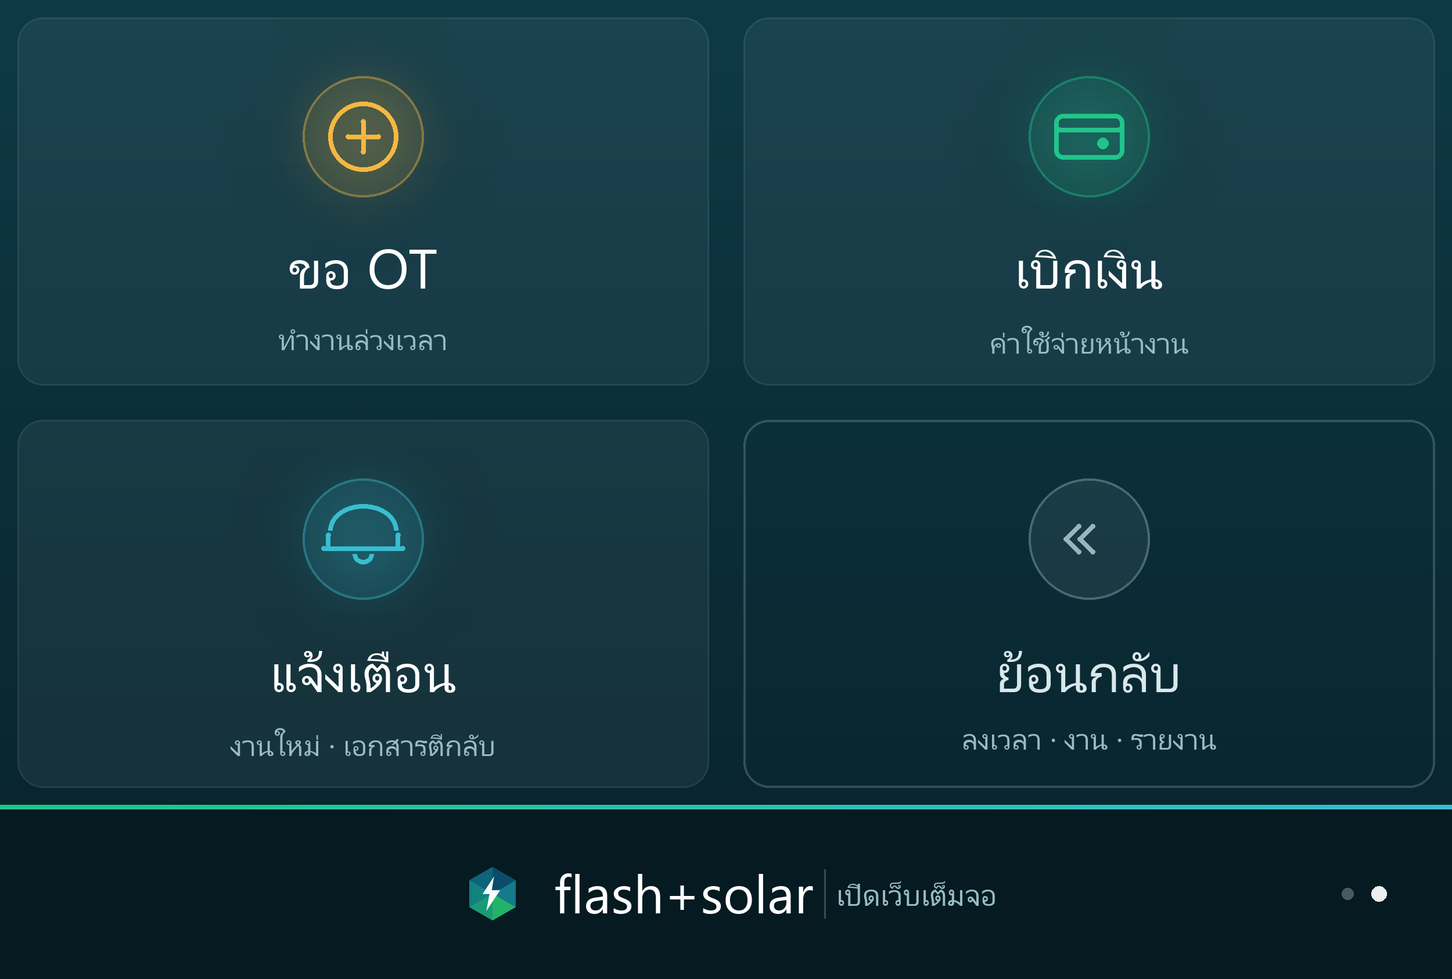
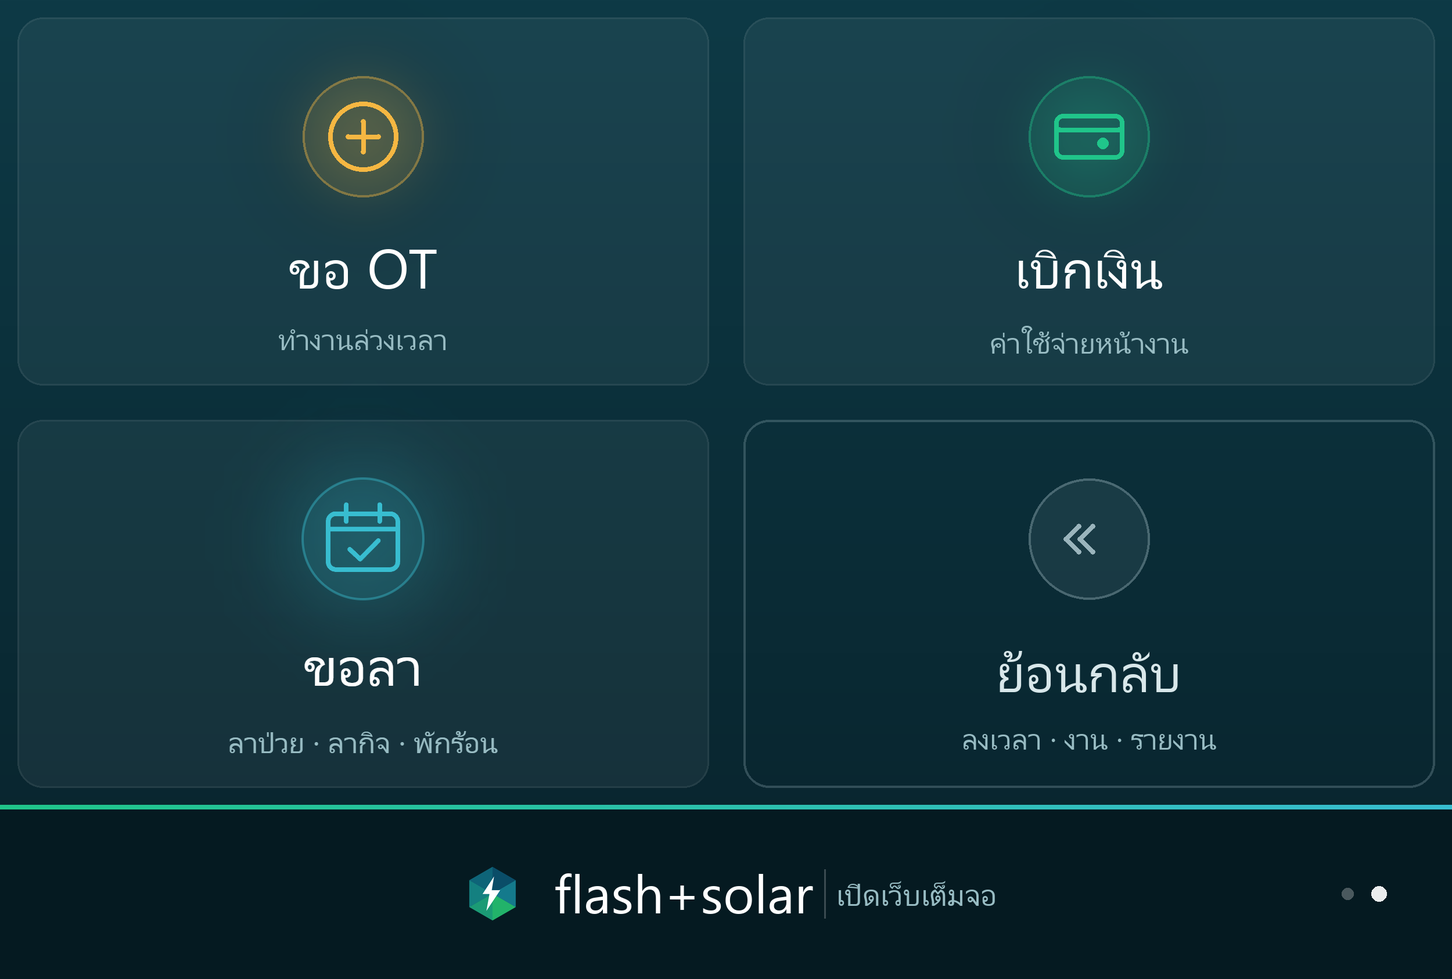
feat(การลา): ปุ่ม "ขอลา" ในเมนูไลน์แทนแจ้งเตือน · ยื่นลาได้ทางไลน์อย่างเดียว · ต้องเลือกผู้อนุมัติ
- เมนูล่าง OA หน้า 2 ช่องที่ 3 เปลี่ยนจาก "แจ้งเตือน" เป็น "ขอลา" (?tab=leave) พร้อมรูปเมนูใหม่
- ผู้ใช้ขอให้ยื่นใบลาได้แค่ในไลน์ — เอาปุ่มขอลา/แก้ใบ/ตีกลับบนเว็บออก เว็บเหลือดู·อนุมัติ·ยกเลิก·แก้ยอด
- ตัดตัวเลือก "ใครก็ได้ที่มีสิทธิ์อนุมัติ" ต้องเลือกผู้อนุมัติก่อนส่ง
- ชิปประเภทลาในฟอร์มไลน์อยู่แถวเดียว ไม่ตกบรรทัด

Changed region(s): [[0.2184, 0.4935, 0.2808, 0.586], [0.1872, 0.6477, 0.312, 0.7094], [0.156, 0.7402, 0.3432, 0.7711]]

diff --git a/dashboard/views-leave.jsx b/dashboard/views-leave.jsx
@@ -62,7 +62,8 @@ function LvModal({ rec, cfg, types, users, rows, quota, role, currentUser, onSav
   if (!f) return null;
 
   const mine = currentUser && f.userId === currentUser.id;
-  const editable = mine && f.status === "draft";
+  /* ยื่นใบลาได้ทางไลน์อย่างเดียว (ผู้ใช้ขอ) — บนเว็บไม่มีการแก้ใบ เจ้าของยกเลิกได้อย่างเดียว */
+  const editable = false;
   const set = (k, v) => setF((p) => {
     const n = Object.assign({}, p, { [k]: v });
     if (k === "from" && (!n.to || n.to < v)) n.to = v;
@@ -72,7 +73,8 @@ function LvModal({ rec, cfg, types, users, rows, quota, role, currentUser, onSav
   });
   const bal = window.lvBalance(rows, quota, f.userId, window.lvYearOf(f.from), types);
   const why = window.lvSendWhy(f, bal);
-  const nexts = window.lvNext(f, role, currentUser).filter((s) => s.key !== "sent" || !why);
+  /* ไม่มี "ส่ง" และ "ตีกลับให้แก้" บนเว็บ — ใบร่างแก้ในไลน์ไม่ได้ ตีกลับแล้วจะค้าง ให้ไม่อนุมัติพร้อมเหตุผลแทน */
+  const nexts = window.lvNext(f, role, currentUser).filter((s) => s.key !== "sent" && s.key !== "draft");
   const apprWhy = window.lvApproveCheck(f, currentUser, role).why;
   const one = f.from === (f.to || f.from);
   /* ประเภทที่เลือกได้ = มียอด (หรือไม่จำกัด) — ลาคลอดที่ยอด 0 ไม่ต้องขึ้นให้ทุกคน */
@@ -158,10 +160,10 @@ function LvModal({ rec, cfg, types, users, rows, quota, role, currentUser, onSav
                 const u = (users || []).find((x) => x.id === e.target.value);
                 setF((p) => Object.assign({}, p, { approverId: u ? u.id : null, approverName: u ? u.name : "" }));
               }}>
-              <option value="">— ใครก็ได้ที่มีสิทธิ์อนุมัติ —</option>
+              <option value="">— เลือกผู้อนุมัติ —</option>
               {window.lvApprovers(users, { id: f.userId }).map((u) => <option key={u.id} value={u.id}>{u.name}</option>)}
             </select>
-          ) : <span style={{ fontSize: 12.5, fontWeight: 700, color: "var(--text-1)" }}>{f.approverName || "ใครก็ได้ที่มีสิทธิ์"}</span>}
+          ) : <span style={{ fontSize: 12.5, fontWeight: 700, color: "var(--text-1)" }}>{f.approverName || "—"}</span>}
         </label>
 
         {f.decidedAt && (
@@ -374,10 +376,6 @@ function LeaveTab({ users, role, currentUser, cfg }) {
     return out;
   }, [sub, visible, waiting, uid, year, q, types]);
 
-  const openNew = () => {
-    const rec = window.lvBlank(currentUser, users, lv.rows, cfg);
-    lv.save(rec); setOpen(rec.id); setSub("mine");
-  };
   const move = (rec, to, note) => {
     const next = window.lvMove(Object.assign({}, rec, { days: window.lvCountDays(rec.from, rec.to, rec.part, cfg) }), to, currentUser, note || "");
     if (!next) return;
@@ -402,10 +400,9 @@ function LeaveTab({ users, role, currentUser, cfg }) {
           <span style={{ fontFamily: "var(--mono)", fontSize: 13, fontWeight: 800, minWidth: 56, textAlign: "center" }}>ปี {year + 543}</span>
           <button onClick={() => setYear(year + 1)} style={lvBtn(false)}>›</button>
         </div>
-        <button onClick={openNew} disabled={!can} style={Object.assign(lvBtn(can), { marginLeft: "auto", opacity: can ? 1 : .5 })}>
-          <Icon name="plus" size={14} color={can ? "#fff" : "var(--text-3)"} /> ขอลา
-        </button>
-        <span style={{ fontSize: 11.5, color: "var(--text-3)" }}>ขอลาจากแอปในไลน์ได้เหมือนกัน (แท็บเวลา → การลา)</span>
+        {can && <span style={{ marginLeft: "auto", fontSize: 12, color: "var(--text-3)", fontWeight: 700 }}>
+          ยื่นใบลาได้ทางแอปไลน์เท่านั้น — ปุ่ม "ขอลา" ที่เมนูล่าง หรือแท็บเวลา → การลา
+        </span>}
       </div>
 
       <LvBalanceCards bal={myBal} />

diff --git a/dashboard/build/views-leave.js b/dashboard/build/views-leave.js
@@ -128,7 +128,7 @@ function LvModal({
   const box = window.useBackdropClose ? window.useBackdropClose(onClose) : {};
   if (!f) return null;
   const mine = currentUser && f.userId === currentUser.id;
-  const editable = mine && f.status === "draft";
+  const editable = false;
   const set = (k, v) => setF(p => {
     const n = Object.assign({}, p, {
       [k]: v
@@ -140,7 +140,7 @@ function LvModal({
   });
   const bal = window.lvBalance(rows, quota, f.userId, window.lvYearOf(f.from), types);
   const why = window.lvSendWhy(f, bal);
-  const nexts = window.lvNext(f, role, currentUser).filter(s => s.key !== "sent" || !why);
+  const nexts = window.lvNext(f, role, currentUser).filter(s => s.key !== "sent" && s.key !== "draft");
   const apprWhy = window.lvApproveCheck(f, currentUser, role).why;
   const one = f.from === (f.to || f.from);
   const pickable = bal.filter(b => b.quota !== 0 || b.type.key === f.type);
@@ -360,7 +360,7 @@ function LvModal({
     }
   }, React.createElement("option", {
     value: ""
-  }, "\u2014 \u0E43\u0E04\u0E23\u0E01\u0E47\u0E44\u0E14\u0E49\u0E17\u0E35\u0E48\u0E21\u0E35\u0E2A\u0E34\u0E17\u0E18\u0E34\u0E4C\u0E2D\u0E19\u0E38\u0E21\u0E31\u0E15\u0E34 \u2014"), window.lvApprovers(users, {
+  }, "\u2014 \u0E40\u0E25\u0E37\u0E2D\u0E01\u0E1C\u0E39\u0E49\u0E2D\u0E19\u0E38\u0E21\u0E31\u0E15\u0E34 \u2014"), window.lvApprovers(users, {
     id: f.userId
   }).map(u => React.createElement("option", {
     key: u.id,
@@ -371,7 +371,7 @@ function LvModal({
       fontWeight: 700,
       color: "var(--text-1)"
     }
-  }, f.approverName || "ใครก็ได้ที่มีสิทธิ์")), f.decidedAt && React.createElement("div", {
+  }, f.approverName || "—")), f.decidedAt && React.createElement("div", {
     style: {
       marginTop: 10,
       padding: "10px 12px",
@@ -838,12 +838,6 @@ function LeaveTab({
     if (kw) out = out.filter(r => [r.no, r.userName, r.reason, window.lvTypeOf(types, r.type).th].some(v => String(v || "").toLowerCase().includes(kw)));
     return out;
   }, [sub, visible, waiting, uid, year, q, types]);
-  const openNew = () => {
-    const rec = window.lvBlank(currentUser, users, lv.rows, cfg);
-    lv.save(rec);
-    setOpen(rec.id);
-    setSub("mine");
-  };
   const move = (rec, to, note) => {
     const next = window.lvMove(Object.assign({}, rec, {
       days: window.lvCountDays(rec.from, rec.to, rec.part, cfg)
@@ -894,23 +888,14 @@ function LeaveTab({
   }, "\u0E1B\u0E35 ", year + 543), React.createElement("button", {
     onClick: () => setYear(year + 1),
     style: lvBtn(false)
-  }, "\u203A")), React.createElement("button", {
-    onClick: openNew,
-    disabled: !can,
-    style: Object.assign(lvBtn(can), {
-      marginLeft: "auto",
-      opacity: can ? 1 : .5
-    })
-  }, React.createElement(Icon, {
-    name: "plus",
-    size: 14,
-    color: can ? "#fff" : "var(--text-3)"
-  }), " \u0E02\u0E2D\u0E25\u0E32"), React.createElement("span", {
+  }, "\u203A")), can && React.createElement("span", {
     style: {
-      fontSize: 11.5,
-      color: "var(--text-3)"
+      marginLeft: "auto",
+      fontSize: 12,
+      color: "var(--text-3)",
+      fontWeight: 700
     }
-  }, "\u0E02\u0E2D\u0E25\u0E32\u0E08\u0E32\u0E01\u0E41\u0E2D\u0E1B\u0E43\u0E19\u0E44\u0E25\u0E19\u0E4C\u0E44\u0E14\u0E49\u0E40\u0E2B\u0E21\u0E37\u0E2D\u0E19\u0E01\u0E31\u0E19 (\u0E41\u0E17\u0E47\u0E1A\u0E40\u0E27\u0E25\u0E32 \u2192 \u0E01\u0E32\u0E23\u0E25\u0E32)")), React.createElement(LvBalanceCards, {
+  }, "\u0E22\u0E37\u0E48\u0E19\u0E43\u0E1A\u0E25\u0E32\u0E44\u0E14\u0E49\u0E17\u0E32\u0E07\u0E41\u0E2D\u0E1B\u0E44\u0E25\u0E19\u0E4C\u0E40\u0E17\u0E48\u0E32\u0E19\u0E31\u0E49\u0E19 \u2014 \u0E1B\u0E38\u0E48\u0E21 \"\u0E02\u0E2D\u0E25\u0E32\" \u0E17\u0E35\u0E48\u0E40\u0E21\u0E19\u0E39\u0E25\u0E48\u0E32\u0E07 \u0E2B\u0E23\u0E37\u0E2D\u0E41\u0E17\u0E47\u0E1A\u0E40\u0E27\u0E25\u0E32 \u2192 \u0E01\u0E32\u0E23\u0E25\u0E32")), React.createElement(LvBalanceCards, {
     bal: myBal
   }), React.createElement("div", {
     style: {

diff --git a/dashboard/liff-leave.jsx b/dashboard/liff-leave.jsx
@@ -69,11 +69,13 @@ function LnLvForm({ me, users, rows, quota, types, cfg, onSave, onClose }) {
       <LnSheetHead title="ขอลา" no={f.no} onClose={onClose} />
       <div style={{ padding: "4px 16px 24px", display: "grid", gap: 14 }}>
         <LnField label="ประเภทการลา" req>
-          <div style={{ display: "flex", gap: 7, flexWrap: "wrap" }}>
+          {/* แถวเดียวเสมอ (ผู้ใช้ขอ) — ชิปเล็กลง ไม่พอก็เลื่อนข้าง ไม่ตกบรรทัด */}
+          <div style={{ display: "flex", gap: 5, flexWrap: "nowrap", overflowX: "auto", scrollbarWidth: "none" }}>
             {bal.filter((b) => b.quota !== 0).map((b) => (
-              <button key={b.type.key} onClick={() => set("type", b.type.key)} style={lnChip(f.type === b.type.key, b.type.color)}>
+              <button key={b.type.key} onClick={() => set("type", b.type.key)}
+                style={Object.assign(lnChip(f.type === b.type.key, b.type.color), { padding: "8px 9px", fontSize: 12.5, flexShrink: 0 })}>
                 {b.type.th}
-                <span style={{ marginLeft: 5, fontFamily: "var(--mono)", fontSize: 11, opacity: .8 }}>
+                <span style={{ marginLeft: 4, fontFamily: "var(--mono)", fontSize: 11, opacity: .8 }}>
                   {b.left == null ? "∞" : Math.round(b.left * 10) / 10}
                 </span>
               </button>
@@ -109,13 +111,13 @@ function LnLvForm({ me, users, rows, quota, types, cfg, onSave, onClose }) {
             placeholder="เช่น ไม่สบาย มีไข้ · ไปทำธุระที่อำเภอ"
             style={Object.assign({}, LN_FIELD, { resize: "vertical", lineHeight: 1.6 })} />
         </LnField>
-        <LnField label="ส่งให้ใครอนุมัติ">
+        <LnField label="ผู้อนุมัติ" req>
           <select value={f.approverId || ""} style={LN_FIELD}
             onChange={(e) => {
               const u = approvers.find((x) => x.id === e.target.value);
               setF((p) => Object.assign({}, p, { approverId: u ? u.id : null, approverName: u ? u.name : "" }));
             }}>
-            <option value="">— ใครก็ได้ที่มีสิทธิ์อนุมัติ —</option>
+            <option value="" disabled>— เลือกผู้อนุมัติ —</option>
             {approvers.map((u) => <option key={u.id} value={u.id}>{u.name}</option>)}
           </select>
         </LnField>

diff --git a/dashboard/build/liff-leave.js b/dashboard/build/liff-leave.js
@@ -121,16 +121,22 @@ function LnLvForm({
   }, React.createElement("div", {
     style: {
       display: "flex",
-      gap: 7,
-      flexWrap: "wrap"
+      gap: 5,
+      flexWrap: "nowrap",
+      overflowX: "auto",
+      scrollbarWidth: "none"
     }
   }, bal.filter(b => b.quota !== 0).map(b => React.createElement("button", {
     key: b.type.key,
     onClick: () => set("type", b.type.key),
-    style: lnChip(f.type === b.type.key, b.type.color)
+    style: Object.assign(lnChip(f.type === b.type.key, b.type.color), {
+      padding: "8px 9px",
+      fontSize: 12.5,
+      flexShrink: 0
+    })
   }, b.type.th, React.createElement("span", {
     style: {
-      marginLeft: 5,
+      marginLeft: 4,
       fontFamily: "var(--mono)",
       fontSize: 11,
       opacity: .8
@@ -205,7 +211,8 @@ function LnLvForm({
       lineHeight: 1.6
     })
   })), React.createElement(LnField, {
-    label: "\u0E2A\u0E48\u0E07\u0E43\u0E2B\u0E49\u0E43\u0E04\u0E23\u0E2D\u0E19\u0E38\u0E21\u0E31\u0E15\u0E34"
+    label: "\u0E1C\u0E39\u0E49\u0E2D\u0E19\u0E38\u0E21\u0E31\u0E15\u0E34",
+    req: true
   }, React.createElement("select", {
     value: f.approverId || "",
     style: LN_FIELD,
@@ -217,8 +224,9 @@ function LnLvForm({
       }));
     }
   }, React.createElement("option", {
-    value: ""
-  }, "\u2014 \u0E43\u0E04\u0E23\u0E01\u0E47\u0E44\u0E14\u0E49\u0E17\u0E35\u0E48\u0E21\u0E35\u0E2A\u0E34\u0E17\u0E18\u0E34\u0E4C\u0E2D\u0E19\u0E38\u0E21\u0E31\u0E15\u0E34 \u2014"), approvers.map(u => React.createElement("option", {
+    value: "",
+    disabled: true
+  }, "\u2014 \u0E40\u0E25\u0E37\u0E2D\u0E01\u0E1C\u0E39\u0E49\u0E2D\u0E19\u0E38\u0E21\u0E31\u0E15\u0E34 \u2014"), approvers.map(u => React.createElement("option", {
     key: u.id,
     value: u.id
   }, u.name)))), f.type && React.createElement("div", {

diff --git a/liff.html b/liff.html
@@ -122,7 +122,7 @@ window.LN_LIFF_ID = "2011577974-yzS9mgQQ";
 <script src="https://cdn.jsdelivr.net/npm/qrcode-generator@1.4.4/qrcode.js"></script>
 <script src="dashboard/build/vcard.js?v=22"></script>
 <script src="dashboard/build/attend.js?v=12"></script>
-<script src="dashboard/build/leave.js?v=2"></script>
+<script src="dashboard/build/leave.js?v=3"></script>
 <script src="dashboard/build/expense.js?v=17"></script>
 <!-- om.js เข้ามาเพราะแท็บ "ซ่อม" ใช้ใบแจ้งซ่อมชุดเดียวกับหน้า O&M บนเดสก์ท็อป
      (เป็นไฟล์ตรรกะล้วน ไม่มีหน้าจอเดสก์ท็อปติดมา — หน้าจออยู่ที่ views-om / om-ticket) -->
@@ -138,7 +138,7 @@ window.LN_LIFF_ID = "2011577974-yzS9mgQQ";
 <script src="dashboard/build/liff-app.js?v=29"></script>
 <!-- แท็บอนุมัติ โหลดหลัง liff-app เพราะใช้ LnPick จากไฟล์นั้น -->
 <script src="dashboard/build/liff-approve.js?v=6"></script>
-<script src="dashboard/build/liff-leave.js?v=2"></script>
+<script src="dashboard/build/liff-leave.js?v=3"></script>
 
 <script>
 (function () {

diff --git a/index.html b/index.html
@@ -1134,13 +1134,13 @@ H-@G1I margin-top D'IC*D%L-1'@- 6H
 <script src="dashboard/build/views-expense.js?v=34"></script>
 <script src="dashboard/build/ec-paper.js?v=19"></script>
 <script src="dashboard/build/attend.js?v=12"></script>
-<script src="dashboard/build/leave.js?v=2"></script>
+<script src="dashboard/build/leave.js?v=3"></script>
 <script src="dashboard/build/auth.js?v=52"></script>
 <!-- นามบัตรอิเล็กทรอนิกส์ — หลัง auth.js เพราะอ่าน ROLE_INFO/userRoles จากที่นั่น -->
 <script src="dashboard/build/vcard.js?v=22"></script>
 <script src="dashboard/build/line.js?v=9"></script>
 <script src="dashboard/build/views-attend.js?v=24"></script>
-<script src="dashboard/build/views-leave.js?v=3"></script>
+<script src="dashboard/build/views-leave.js?v=4"></script>
 <script src="dashboard/build/ot-paper.js?v=8"></script>
 <script src="dashboard/build/views-line.js?v=6"></script>
 <script src="dashboard/build/guide.js?v=11"></script>

diff --git a/dashboard/leave.jsx b/dashboard/leave.jsx
@@ -133,6 +133,8 @@ function lvSendWhy(f, bal) {
   if ((f.to || f.from) < f.from) return "วันสิ้นสุดต้องไม่ก่อนวันเริ่ม";
   if (!(+f.days > 0)) return "ช่วงนี้ไม่มีวันทำงาน — ไม่ต้องลา";
   if (!String(f.reason || "").trim()) return "กรอกเหตุผลการลา";
+  /* ต้องเลือกผู้อนุมัติเสมอ (ผู้ใช้ขอ) — ไม่มีแบบ "ใครก็ได้ที่มีสิทธิ์" */
+  if (!f.approverId) return "เลือกผู้อนุมัติ";
   const b = (bal || []).find((x) => x.type.key === f.type);
   /* ต้องลาล่วงหน้า — นับตอนกดส่ง เทียบวันนี้กับวันเริ่มลา */
   if (b) {

diff --git a/dashboard/build/leave.js b/dashboard/build/leave.js
@@ -134,6 +134,7 @@ function lvSendWhy(f, bal) {
   if ((f.to || f.from) < f.from) return "วันสิ้นสุดต้องไม่ก่อนวันเริ่ม";
   if (!(+f.days > 0)) return "ช่วงนี้ไม่มีวันทำงาน — ไม่ต้องลา";
   if (!String(f.reason || "").trim()) return "กรอกเหตุผลการลา";
+  if (!f.approverId) return "เลือกผู้อนุมัติ";
   const b = (bal || []).find(x => x.type.key === f.type);
   if (b) {
     const lead = lvLeadDays(f.from);

diff --git a/tools/richmenu-image.py b/tools/richmenu-image.py
@@ -48,14 +48,14 @@ PAGE1 = [
     {"th": "ลงเวลา",          "sub": "เข้า-ออกงาน",              "color": (32, 197, 138), "icon": "clock"},
     {"th": "งานของฉัน",       "sub": "ค้นหา · รายละเอียด",        "color": (56, 189, 208), "icon": "search"},
     {"th": "รายงานประจำวัน",  "sub": "ส่งใบรายงานหน้างาน",        "color": (122, 205, 122), "icon": "pen"},
-    {"th": "หน้าถัดไป",       "sub": "ขอ OT · เบิกเงิน · เตือน",  "color": (154, 180, 188), "icon": "next", "nav": True},
+    {"th": "หน้าถัดไป",       "sub": "ขอ OT · เบิกเงิน · ลา",    "color": (154, 180, 188), "icon": "next", "nav": True},
 ]
 
 # หน้าสอง — เรื่องเอกสาร กดไม่บ่อยเท่า แต่ต้องหาเจอ
 PAGE2 = [
     {"th": "ขอ OT",      "sub": "ทำงานล่วงเวลา",            "color": (245, 183, 66),  "icon": "plus"},
     {"th": "เบิกเงิน",   "sub": "ค่าใช้จ่ายหน้างาน",         "color": (32, 197, 138),  "icon": "wallet"},
-    {"th": "แจ้งเตือน",  "sub": "งานใหม่ · เอกสารตีกลับ",    "color": (56, 189, 208),  "icon": "bell"},
+    {"th": "ขอลา",  "sub": "ลาป่วย · ลากิจ · พักร้อน",    "color": (56, 189, 208),  "icon": "calendar"},  # ไอคอนปฏิทินวาดในเบราว์เซอร์ (เครื่องนี้ไม่มี Python) — ยังไม่มีใน draw_icon
     {"th": "ย้อนกลับ",   "sub": "ลงเวลา · งาน · รายงาน",     "color": (154, 180, 188), "icon": "back", "nav": True},
 ]
 

diff --git a/CLAUDE.md b/CLAUDE.md
@@ -106,7 +106,8 @@ deploy อัตโนมัติด้วย Vercel จาก `master` บน 
 - **ต้องลาล่วงหน้า** (ผู้ใช้ขอ): `lvSendWhy` กันส่งเมื่อวันเริ่มลาห่างจากวันนี้ < `adv` วัน · ย้อนหลังได้เฉพาะ `back` · ค่าเริ่ม ลาป่วย 0 + ย้อนหลังได้ · ลากิจ 3 · พักร้อน 7 · ลาคลอด 30 · ไม่รับค่าจ้าง 3 — แก้ได้ในแท็บ "ประเภทการลา" (ค่าตั้งเก่าที่ไม่มี adv ใช้ค่าเริ่มตามคีย์ `LV_ADV_DEF`)
 - สิทธิ์ `leave` (ทุกตำแหน่งที่มี ot) · `leaveApprove` (admin/lead/hr — สำเนาใน api/line/push.mjs ด้วย) · แก้ยอดรายคน = attendAll + leaveApprove · แก้ประเภท = manageUsers
 - เว็บ: แท็บ "การลา" ในหน้าเวลาทำงาน (ยอดของฉัน · ใบของฉัน · รอฉันอนุมัติ · ทั้งหมด · ยอดวันลาทุกคน · ประเภท) · แผ่นเวลารายวันโชว์คนที่ลา (อนุมัติแล้ว) แยกจาก "ยังไม่ได้ลงเวลา"
-- ไลน์: แท็บเวลา → หัวข้อ "การลา" (ยื่นแล้วส่งเลย ไม่มีร่าง · ยกเลิกเองได้จนกว่าจะตัดสิน) · ใบลารออนุมัติอยู่ในหัวข้อ "รออนุมัติ" ร่วมกับใบ OT · ลิงก์ `?tab=leave` (ใส่ในเมนูล่างของ OA ได้)
+- ไลน์: แท็บเวลา → หัวข้อ "การลา" (ยื่นแล้วส่งเลย ไม่มีร่าง · ยกเลิกเองได้จนกว่าจะตัดสิน) · ใบลารออนุมัติอยู่ในหัวข้อ "รออนุมัติ" ร่วมกับใบ OT · ลิงก์ `?tab=leave` = ปุ่ม "ขอลา" ช่องที่ 3 ของเมนูล่างหน้า 2 (แทนปุ่มแจ้งเตือนเดิม · `tools/richmenu.mjs` รูป `richmenu-p2.png`)
+- **ยื่นใบลาได้ทางไลน์อย่างเดียว** (ผู้ใช้ขอ): เว็บไม่มีปุ่มขอลา/แก้ใบ/ส่ง/ตีกลับ — ดู อนุมัติ ไม่อนุมัติ ยกเลิก แก้ยอด · **ต้องเลือกผู้อนุมัติเสมอ** (`lvSendWhy` · ไม่มีตัวเลือก "ใครก็ได้") · ชิปประเภทในฟอร์มไลน์แถวเดียว ไม่ตกบรรทัด
 - แจ้งเตือนชนิด `leave` (🌴) — config/linePush ที่ยังไม่มีคีย์ leave ตามสวิตช์ ot (push.mjs + views-line.jsx)
 - **cron 18:00 เตือนลืมลงเวลาออก** `api/cron/clockout.mjs` (vercel.json `0 11 * * *` UTC · แผน Hobby ยิงภายในชั่วโมงนั้น) · คนที่เข้าแล้วยังไม่ออกได้การ์ดคนละใบ · สวิตช์ kinds.attend · กันซ้ำ `cronRun/clockout-{วันที่}` · สรุป 20:30 (daily.mjs) ไม่มีบรรทัดลืมออกแล้ว เพิ่มใบลาที่รอคนนั้นอนุมัติแทน
 
